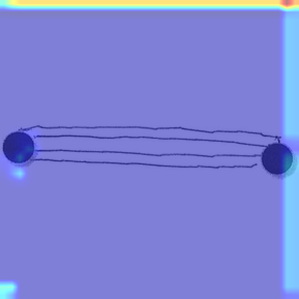
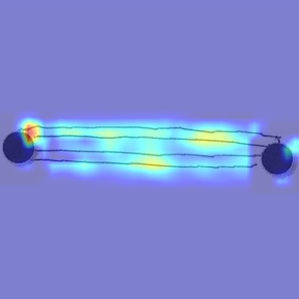
updated image preprocessing and gradcam for cnn

Changed region(s): [[0.0, 0.3612, 0.903, 0.6321], [0.0, 0.0, 1.0, 1.0], [0.0, 0.9331, 0.0903, 1.0]]

diff --git a/src/evaluation/gradcam.py b/src/evaluation/gradcam.py
@@ -7,17 +7,13 @@ import cv2
 import torch
 import numpy as np
 
-from PIL import Image
 from torchvision.transforms import v2
+from torchvision.io import decode_image, ImageReadMode
+
+from preprocess import preprocess_image
 
 from pytorch_grad_cam import GradCAM
 from pytorch_grad_cam.utils.image import show_cam_on_image
-
-transform = v2.Compose([
-    v2.ToImage(),
-    v2.Resize((299, 299)),
-    v2.ToDtype(torch.float32, scale=True)
-])
 
 def generate_gradcam(model, image_path, output_dir="static/gradcams"):
     """ generate GradCAM viz for a loaded CNN model
@@ -28,14 +24,10 @@ def generate_gradcam(model, image_path, output_dir="static/gradcams"):
     # last layer
     target_layers = [model.features[-3]]
 
-    pil_img = Image.open(image_path).convert("RGB")
+    image = decode_image(image_path, mode=ImageReadMode.RGB)
+    rgb_img = (v2.Resize((299, 299))(image).permute(1, 2, 0).float().numpy() / 255.0)
 
-    rgb_img = np.array(
-        pil_img.resize((299, 299))
-    ).astype(np.float32) / 255.0
-    
-    input_tensor = transform(pil_img)
-    input_tensor = input_tensor.unsqueeze(0)
+    input_tensor = preprocess_image(image_path)
 
     cam = GradCAM(model=model,target_layers=target_layers)
 
@@ -47,9 +39,7 @@ def generate_gradcam(model, image_path, output_dir="static/gradcams"):
     # save
     os.makedirs(output_dir, exist_ok=True)
 
-    og = os.path.basename(image_path)
-
-    filename = f"gradcam_{og}"
+    filename = f"gradcam_{os.path.basename(image_path)}"
     output_path = os.path.join(output_dir, filename)
 
     cv2.imwrite(output_path, cv2.cvtColor(visualization, cv2.COLOR_RGB2BGR))

diff --git a/preprocess.py b/preprocess.py
@@ -1,8 +1,13 @@
-import torch
 from torchvision.io import decode_image, ImageReadMode
 from torchvision.transforms import v2
+import torch
 
-transform = v2.Compose([v2.Resize((299, 299)), v2.ToDtype(torch.float32, scale=True)])
+transform = v2.Compose([
+    v2.ToImage(),
+    v2.Resize((299, 299)),
+    v2.ToDtype(torch.float32, scale=True),
+    v2.Normalize(mean=[0.5, 0.5, 0.5], std=[0.5, 0.5, 0.5])
+])
 
 def preprocess_image(image_path):
     image = decode_image(image_path, mode=ImageReadMode.RGB)

diff --git a/predictor.py b/predictor.py
@@ -20,17 +20,17 @@ class Predictor:
 
         # standalone cnn
         self.cnn = CNN()
-        self.cnn.load_state_dict(torch.load("models/cnn.pth", map_location="cpu"))
+        self.cnn.load_state_dict(torch.load("models/cnn.pth", map_location=self.device))
         self.cnn.eval()
 
         # standalone mlp (30)
         self.mlp = KinematicMLP(input_size=30)
-        self.mlp.load_state_dict(torch.load("models/mlp.pth", map_location="cpu"))
+        self.mlp.load_state_dict(torch.load("models/mlp.pth", map_location=self.device))
         self.mlp.eval()
 
-        # ? fix
+        # fusion model
         self.fusion = IntermediateFusionModel("models/cnn.pth", "models/mlp_fusion.pth", 18)
-        self.fusion.load_state_dict(torch.load("models/fusion.pth", map_location="cpu"))
+        self.fusion.load_state_dict(torch.load("models/fusion.pth", map_location=self.device))
         self.fusion.eval()
 
     def predict(self, image_path=None, csv_path=None):